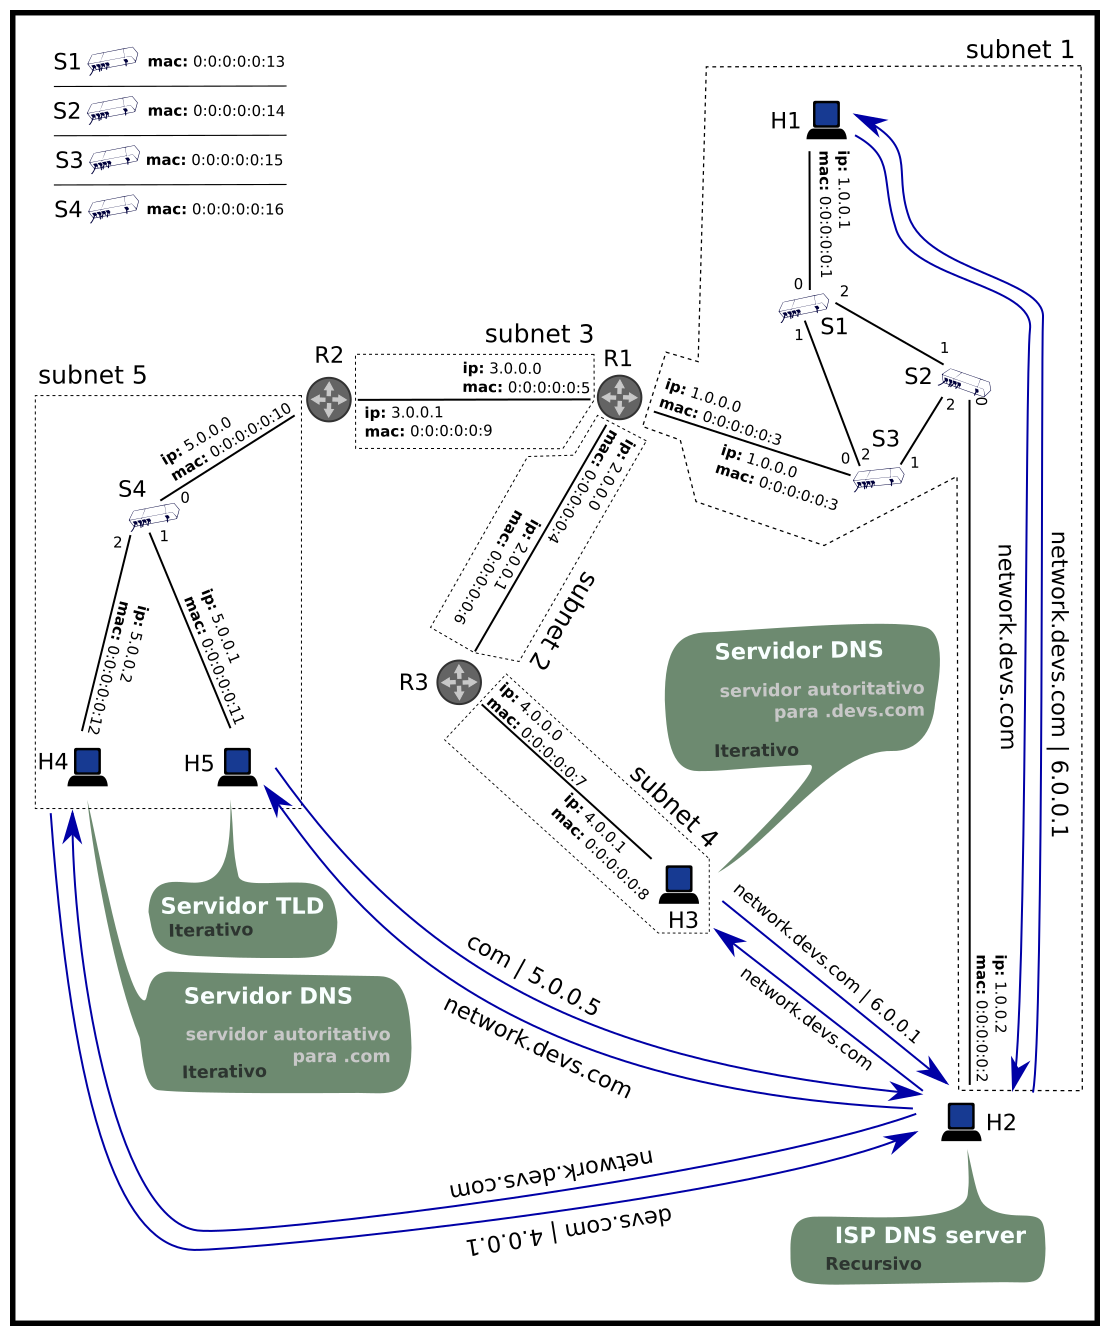
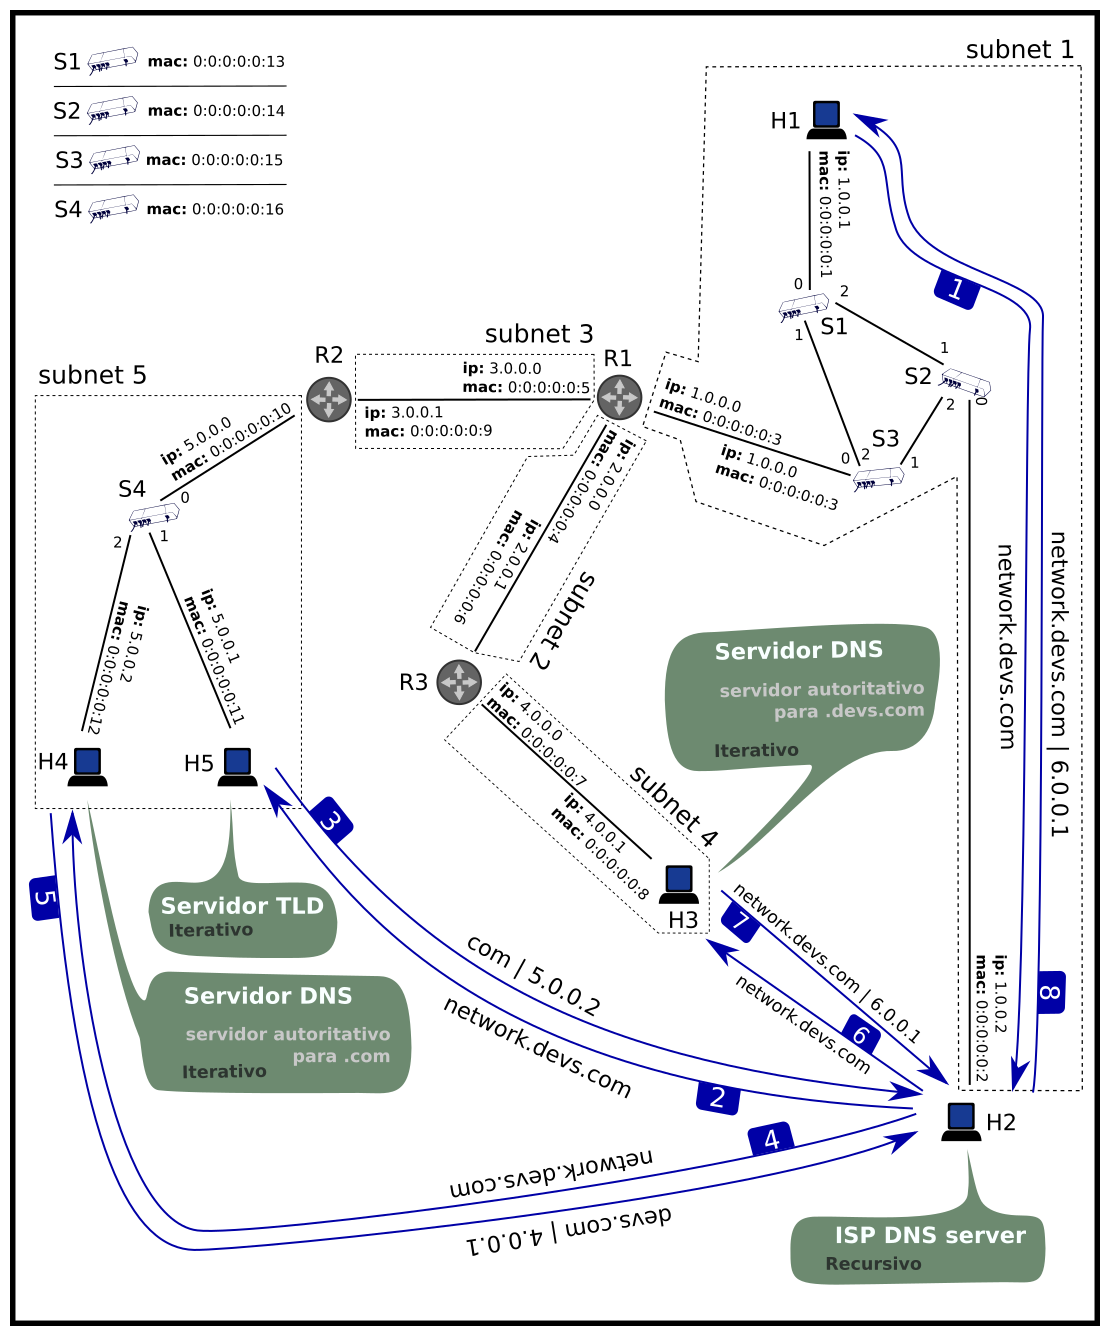
finished post presentation corrections made by rodrigo Castro.

diff --git a/informe/informe.tex b/informe/informe.tex
@@ -33,14 +33,14 @@
 
 \usepackage{verbatim}
 
-\begin{document}
+\begin{document}	
 
-\titulo{NetworkDEVS}
-\subtitulo{Una herramienta de estudio para modelar redes usando DEVS y PowerDEVS}
+\titulo{Trabajo Práctico Final}
+\subtitulo{NetworkDEVS: Una herramienta de simulación para la enseñanza de redes de datos}
 
 \fecha{\today}
 
-\materia{Teoría de las telecomunicaciones}
+\materia{Teoría de las Comunicaciones}
 
 \integrante{Belloli, Laouen Mayal Louan}{134/11}{laouen.belloli@gmail.com}
 
@@ -51,11 +51,11 @@
 
 \section{Introducción y Motivación}
 
-El presente trabajo introduce un modelo DEVS de una red funcionando bajo el protocolo UDP/IP encuadrando lo mejor posible cada uno de sus módulos en su correspondiente capa respecto al modelo OSI presentado en la literatura oficial de la materia de teoría de la telecomunicaciones \cite{peterson2011computer}. El trabajo fue desarrollado en el simulador PowerDEVS y pensado como herramienta de estudio para futuros alumnos de la materia. \\
+El presente trabajo introduce un modelo DEVS de una red funcionando bajo el protocolo UDP/IP encuadrando lo mejor posible cada uno de sus módulos en su correspondiente capa respecto al modelo OSI presentado en la literatura oficial de la materia de teoría de la comunicaciones \cite{peterson2011computer}. El trabajo fue desarrollado en el simulador PowerDEVS y pensado como herramienta de estudio para futuros alumnos de la materia. \\
 
-Además del modelo, este trabajo aporta un framework que permite programar y modificar los protocolos de una red de telecomunicaciones para luego simular su comportamiento y obtener feedback instantáneo de los resultados. También, usando el simulador PowerDEVS, se consigue brindar una interfaz gráfica intuitiva que mapea de forma directa los dispositivos de la red con los módulos del modelo. Esta interfaz gráfica permite crear distintos escenarios topológicos sin tener que tocar ni una linea de código. \\
+Además del modelo, este trabajo aporta un framework que permite programar y modificar los protocolos de una red de comunicaciones para luego simular su comportamiento y obtener feedback instantáneo de los resultados. También, usando el simulador PowerDEVS, se consigue brindar una interfaz gráfica intuitiva que mapea de forma directa los dispositivos de la red con los módulos del modelo. Esta interfaz gráfica permite crear distintos escenarios topológicos sin tener que tocar ni una linea de código. \\
 
-Por otro lado, esta interfaz gráfica permite modularizar de forma explícita las distintas capas del modelo y sus interacciones. De esta forma, se programa cada protocolo en su capa correspondiente, esto no es menor, ya que si bien, teóricamente, los distintos protocolos están separados en capas y las redes pueden ser pensadas así, en la realidad, estas capas no existen de forma explicita y hay un salto entre las teorías de redes y los modelos en capas respecto de sus distintas implementaciones prácticas. Este modelo, permite a los alumnos hacer trabajos prácticos implementando los protocolos y manteniendo explicitas estas capas, por ende, permite acercar la teoría y la práctica de las redes de telecomunicaciones. \\
+Por otro lado, esta interfaz gráfica permite modularizar de forma explícita las distintas capas del modelo y sus interacciones. De esta forma, se programa cada protocolo en su capa correspondiente, esto no es menor, ya que si bien, teóricamente, los distintos protocolos están separados en capas y las redes pueden ser pensadas así, en la realidad, estas capas no existen de forma explicita y hay un salto entre las teorías de redes y los modelos en capas respecto de sus distintas implementaciones prácticas. Este modelo, permite a los alumnos hacer trabajos prácticos implementando los protocolos y manteniendo explicitas estas capas, por ende, permite acercar la teoría y la práctica de las redes de comunicaciones. \\
 
 Si bien, el modelo realizado es un modelo DEVS (Discrete EVent System Specification), el mismo fue pensado para que no sea necesario más que una breve introducción al formalismo, por lo que mismo personas sin ninguna experiencia en DEVS deberían ser capases de poder utilizar el simulador, el modelo y el framework general propuesto en este trabajo. De todas formas, una explicación detallada sobre DEVS y PowerDEVS puede ser encontrada en \cite{bergero2011powerdevs}, un documento donde los autores de PowerDEVS explican con detalles, el formalismo DEVS y el simulador PowerDEVS. \\
 
@@ -64,7 +64,7 @@ Si bien, el modelo realizado es un modelo DEVS (Discrete EVent System Specificat
 Los objetivos de este trabajo se pueden dividir en varias partes:
 \subsection{Desarrollar un framework para modelos de redes}
 
-Como ya fue mencionado en la introducción, uno de los principales objetivos de este trabajo es desarrollar un framework, que permita fácilmente implementar protocolos de red, validarlos y experimentar con ellos mediante Simulación de Eventos Discretos (DES). Esta herramienta permite testear los protocolos implementados de forma sencilla y rápida. Obteniendo una herramienta útil, tanto para el estudio de las redes de telecomunicaciones como para la investigación en el área. 
+Como ya fue mencionado en la introducción, uno de los principales objetivos de este trabajo es desarrollar un framework, que permita fácilmente implementar protocolos de red, validarlos y experimentar con ellos mediante Simulación de Eventos Discretos (DES). Esta herramienta permite testear los protocolos implementados de forma sencilla y rápida. Obteniendo una herramienta útil, tanto para el estudio de las redes de comunicaciones como para la investigación en el área. 
 
 La creación de un modelo que sirva como framework, tiene por objetivo factorizar y estandarizar las partes comunes a todos los protocolos, estás partes comunes provienen de las propiedades inherentes a los dispositivos físicos en los cuales los protocolos están corriendo, y de los estándares actualmente utilizados que permiten obtener robustez y compatibilidad entre distintas implementaciones que puedan existir en distintas partes de una red. Estas abstracciones encapsuladas en el modelo framework presentado, permiten al modelador, concentrarse plenamente en su protocolo y permite la reutilización y compatibilidad de distintos modelos que pueden luego ser combinados en un único modelo de una red que funcione bajo distintos protocolos, permitiendo así el estudio de la compatibilidad, homogeneidad y efectividad de los protocolos implementados.
 
@@ -971,7 +971,7 @@ En este escenario, el host 2 es el servidor local para la \textit{subnet} 1, el 
 \begin{figure}[!htb]
     \centering
     \includegraphics[width = 1.0\textwidth]{img/png/scenario.png}
-    \caption{Escenario implementado: Las lineas azules muestran el intercambio de paquetes \textit{DNS} entre los hosts mientras que las lineas negras muestran las conexiones de la red por donde efectivamente se envían los paquetes, teniendo que pasar por múltiples switches y routers para ir de un host a otro. Los números al lado de los switches muestran el mapeo de puertos para el protocolo \textit{Datagram}.}
+    \caption{Escenario implementado: Las lineas azules numeradas muestran el intercambio de paquetes \textit{DNS} entre los hosts y el orden secuencial con el que sea realizan estos intercambios, mientras que las lineas negras muestran las conexiones de la red por donde efectivamente se envían los paquetes, teniendo que pasar por múltiples switches y routers para ir de un host a otro. Los números al lado de los switches muestran el mapeo de puertos para el protocolo \textit{Datagram}.}
     \label{figure: case study}
 \end{figure}
 
@@ -1006,6 +1006,30 @@ En este escenario, el host 2 es el servidor local para la \textit{subnet} 1, el 
     \caption{Modelo PowerDEVS de un dispositivo \textit{Switch} que cuenta con una sola capa en la cual implementa el protocolo \textit{Datagram} y \textit{SWP}. Utiliza un multiplexer y demultiplexer para saber de cuál interfaz llego el mensaje y para elegir por cual o cuales interfaces enviar el mensaje.}
     \label{figure: powerdevs switch}
 \end{figure}
+
+\section{Conclusiones}
+Si bien existen varias herramientas para la implementación de modelado y simulación de redes de comunicaciones, en este trabajo se pudo observar varias ventajas extras, algunas de ellas desde el punto de vista formal y otras desde el punto de vista educativo. Desde el punto de vista formal, se logró implementar el modelo OSI e implementar un modelo UDP/IP que funcione sobre el mismo, permitiendo modelar las formalidades de las ideas más teóricas de los protocolos de forma práctica, además, este trabajo cuenta con todos los beneficios heredados al utilizar el formalismo DEVS. Desde el punto de vista educativo, se observa la ventaja principal de poder contar con un modelo más intuitivo para la enseñanza y aprendizaje de redes que se abstrae de las dificultades técnicas existentes en herramientas de modelado más complejas pero que pueden no aportar al entendimiento de los temas. \\
+
+Personalmente, siento que en este trabajo se logró modelar a los protocolos como entidades individuales abstrayéndolos lo suficiente de los aspectos generales de las redes, lo que me permitió estudiar y comprender mejor sus interacciones y mecanismos, separar los aspectos generales de los protocolos (necesario para el buen funcionamiento del sistema) de los aspectos particulares de los mismos (necesarios para la robustez y funcionamiento particular de cada entidad del sistema) así como comprender y separar las ideas de los protocolos horizontales (cada capa se comunica con la capa del mismo nivel del otro nodo) respecto de su implementación final vertical (cada protocolo envía y recibe paquetes mediante la capa inferior). Por otro lado, implementar un modelo que se amolde lo mejor posible a la teoría pero que tenga funcionamiento práctico me permitió comprender mejor la distancia existente entre ambos mundos. Creo que estos aspectos mencionados si bien son personales, se derivan directamente de la arquitectura propuesta en este trabajo y pueden ser adquiridas por cualquier estudiante que utilice NetworkDEVS para aprender sobre los temas del área.
+
+\section{trabajo futuro}
+
+\subsection{Automatizar la implementación de los modelos acoplados Layer}
+Si bien en este trabajo se implementó la arquitectura general del framework de trabajo para modelar redes, las estructuras de los modelos acoplados de las capas y sus parámetros deben actualmente ser implementadas a mano por el modelador y requiere la realización de trabajo mecánico por parte del mismo. Esta tarea además de consumir mucho tiempo y ser tediosa, es propensa a errores del programador fácilmente evitables si el mismo fuera automatizado. Por lo que un trabajo futuro muy útil para mejorar la usabilidad de está herramienta es la implementación de un generador de estructuras acopladas donde el usuario especifique datos tales como:
+
+\begin{itemize}
+\item Ubicaciones de los archivos donde está implementado el o los protocolos de la capa.
+\item Los parámetros de los protocolos.
+\item Los ids para los demultiplexers.
+\end{itemize}
+
+\subsection{Generador automático de topologías}
+De la misma forma que se puede automatizar la creación de los modelos capas, también se puede automatizar la creación de distintas topología. Ya existe una herramienta para la creación de topologías integradas a PowerDEVS \cite{laurito2017topogen}, solo es necesario integrar a esa herramienta la arquitectura de NetworkDEVS.
+
+\subsection{Mejoras al modelo del caso de estudio}
+\begin{itemize}
+\item Como ya fue mencionado anteriormente, en el modelo implementado en este trabajo no se implementó ningún protocolo dinámico para el llenado de las distintas tablas utilizadas (routing table, forwarding table, etc.), sería muy interesante implementar estos protocolos para poder tener un caso de estudió más completo del funcionamiento de una red.
+\end{itemize}
 
 \newpage
 
